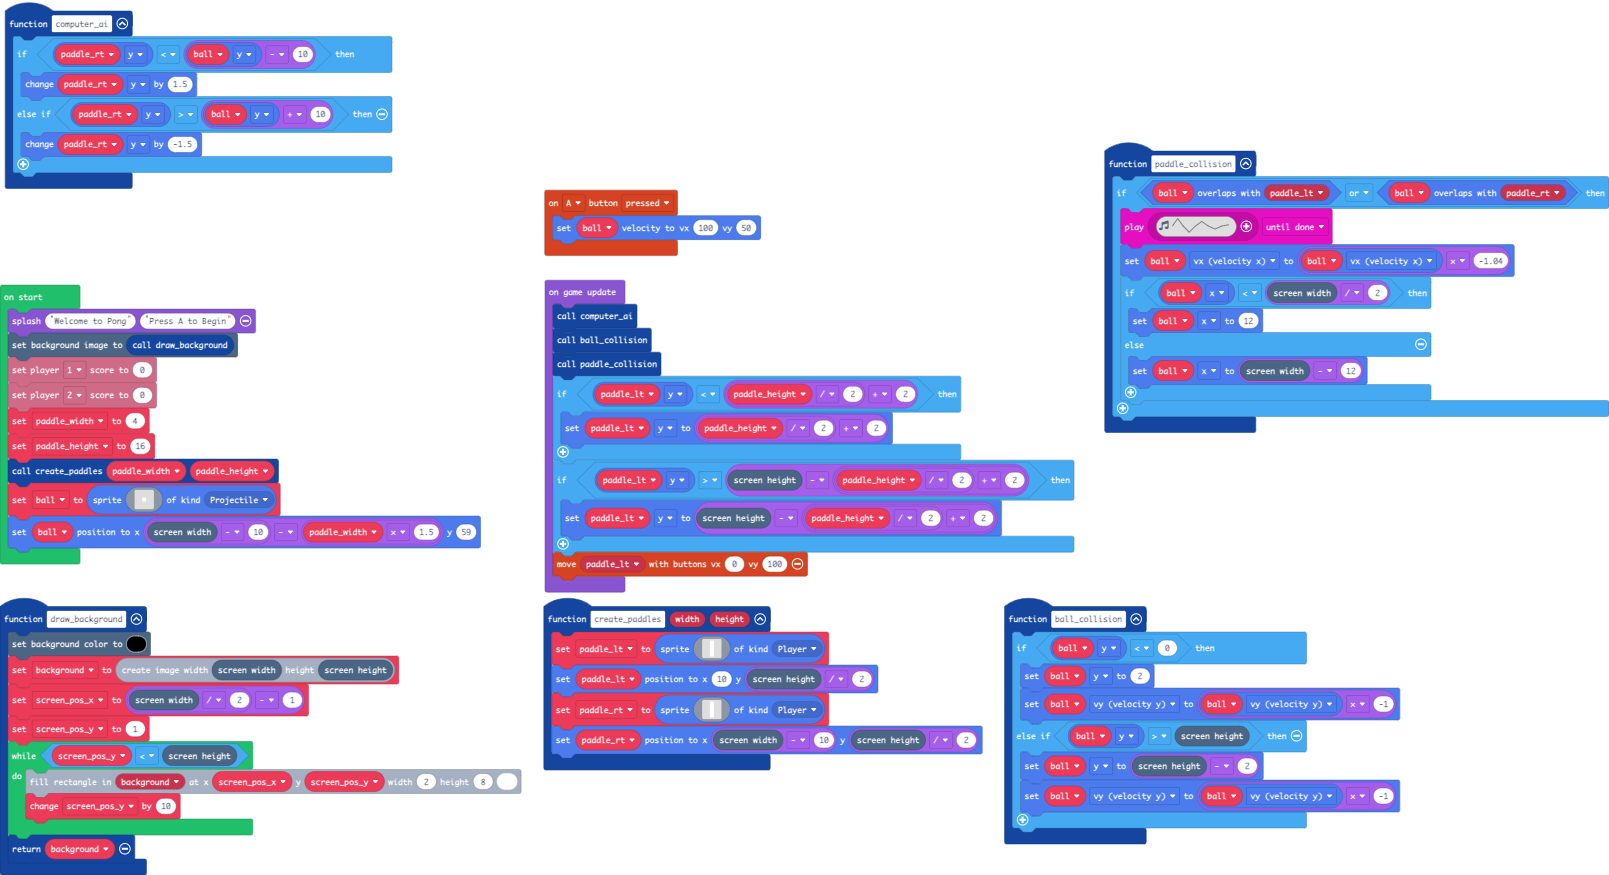
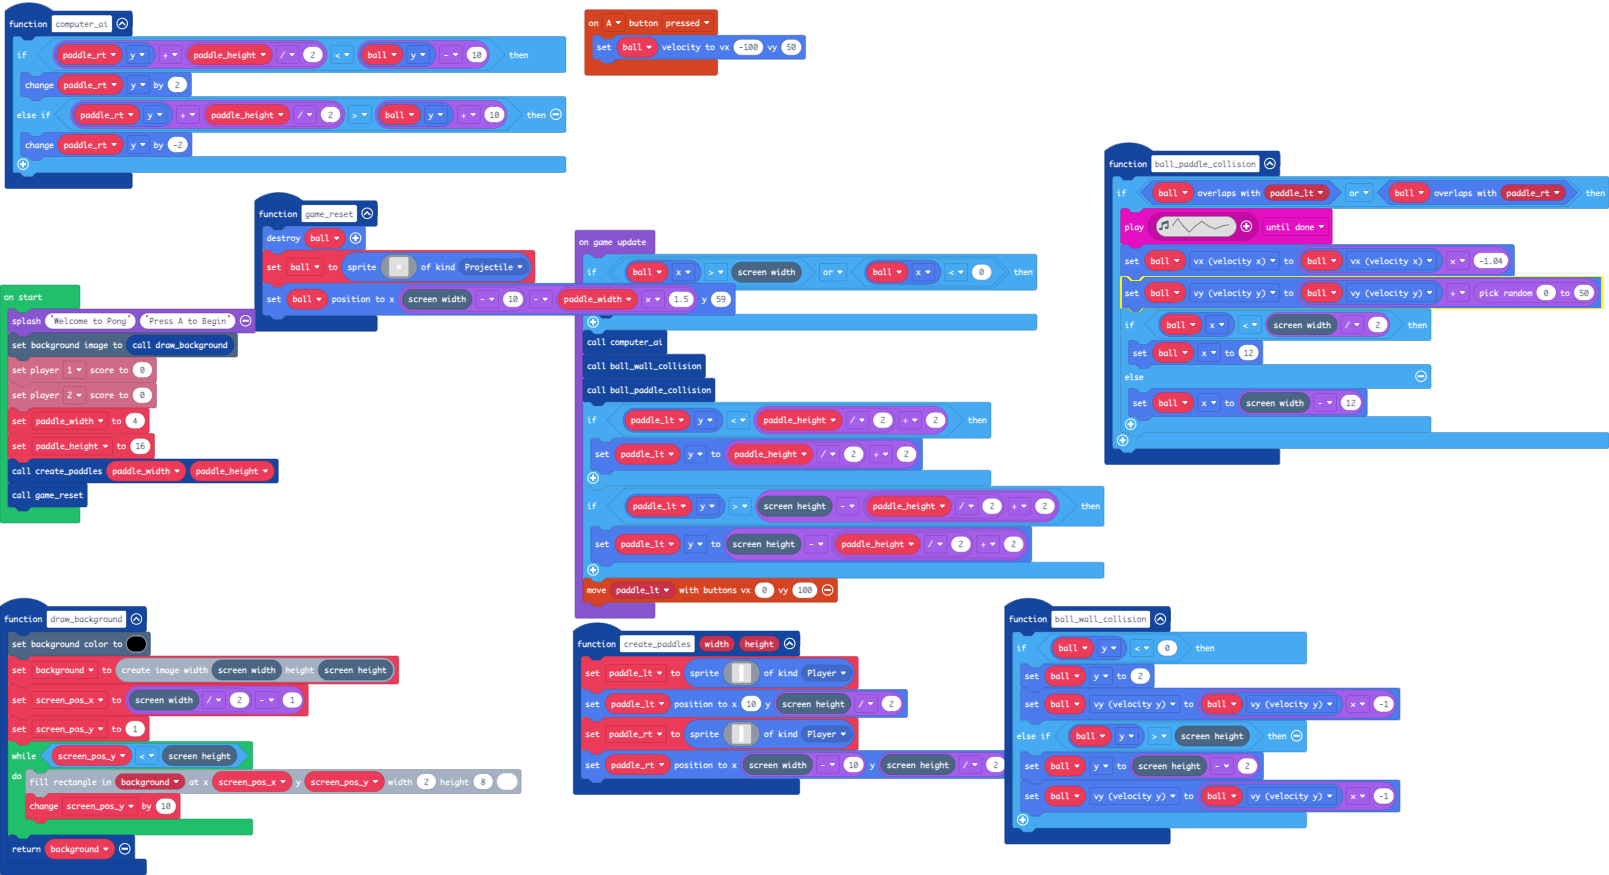
Added randomness to return volley. Added game reset function.

diff --git a/main.ts b/main.ts
@@ -1,25 +1,14 @@
 namespace SpriteKind {
     export const Environment = SpriteKind.create()
 }
-function paddle_collision () {
-    if (ball.overlapsWith(paddle_lt) || ball.overlapsWith(paddle_rt)) {
-        music.play(music.createSoundEffect(WaveShape.Triangle, 1687, 326, 255, 0, 20, SoundExpressionEffect.Tremolo, InterpolationCurve.Logarithmic), music.PlaybackMode.UntilDone)
-        ball.vx = ball.vx * -1.04
-        if (ball.x < scene.screenWidth() / 2) {
-            ball.x = 12
-        } else {
-            ball.x = scene.screenWidth() - 12
-        }
-    }
-}
 controller.A.onEvent(ControllerButtonEvent.Pressed, function () {
-    ball.setVelocity(100, 50)
+    ball.setVelocity(-100, 50)
 })
 function computer_ai () {
-    if (paddle_rt.y < ball.y - 10) {
-        paddle_rt.y += 1.5
-    } else if (paddle_rt.y > ball.y + 10) {
-        paddle_rt.y += -1.5
+    if (paddle_rt.y + paddle_height / 2 < ball.y - 10) {
+        paddle_rt.y += 2
+    } else if (paddle_rt.y + paddle_height / 2 > ball.y + 10) {
+        paddle_rt.y += -2
     }
 }
 function draw_background () {
@@ -33,13 +22,25 @@ function draw_background () {
     }
     return background
 }
+function ball_paddle_collision () {
+    if (ball.overlapsWith(paddle_lt) || ball.overlapsWith(paddle_rt)) {
+        music.play(music.createSoundEffect(WaveShape.Triangle, 1687, 326, 255, 0, 20, SoundExpressionEffect.Tremolo, InterpolationCurve.Logarithmic), music.PlaybackMode.UntilDone)
+        ball.vx = ball.vx * -1.04
+        ball.vy = ball.vy + randint(0, 50)
+        if (ball.x < scene.screenWidth() / 2) {
+            ball.x = 12
+        } else {
+            ball.x = scene.screenWidth() - 12
+        }
+    }
+}
 function create_paddles (width: number, height: number) {
     paddle_lt = sprites.create(assets.image`paddle`, SpriteKind.Player)
     paddle_lt.setPosition(10, scene.screenHeight() / 2)
     paddle_rt = sprites.create(assets.image`paddle`, SpriteKind.Player)
     paddle_rt.setPosition(scene.screenWidth() - 10, scene.screenHeight() / 2)
 }
-function ball_collision () {
+function ball_wall_collision () {
     if (ball.y < 0) {
         ball.y = 2
         ball.vy = ball.vy * -1
@@ -48,25 +49,34 @@ function ball_collision () {
         ball.vy = ball.vy * -1
     }
 }
+function game_reset () {
+    sprites.destroy(ball)
+    ball = sprites.create(assets.image`ball`, SpriteKind.Projectile)
+    ball.setPosition(scene.screenWidth() - 10 - paddle_width * 1.5, 59)
+}
+let paddle_lt: Sprite = null
 let screen_pos_y = 0
 let screen_pos_x = 0
 let background: Image = null
 let paddle_rt: Sprite = null
-let paddle_lt: Sprite = null
 let ball: Sprite = null
+let paddle_height = 0
+let paddle_width = 0
 game.splash("Welcome to Pong", "Press A to Begin")
 scene.setBackgroundImage(draw_background())
 info.player1.setScore(0)
 info.player2.setScore(0)
-let paddle_width = 4
-let paddle_height = 16
+paddle_width = 4
+paddle_height = 16
 create_paddles(paddle_width, paddle_height)
-ball = sprites.create(assets.image`ball`, SpriteKind.Projectile)
-ball.setPosition(scene.screenWidth() - 10 - paddle_width * 1.5, 59)
+game_reset()
 game.onUpdate(function () {
+    if (ball.x > scene.screenWidth() || ball.x < 0) {
+        game_reset()
+    }
     computer_ai()
-    ball_collision()
-    paddle_collision()
+    ball_wall_collision()
+    ball_paddle_collision()
     if (paddle_lt.y < paddle_height / 2 + 2) {
         paddle_lt.y = paddle_height / 2 + 2
     }
